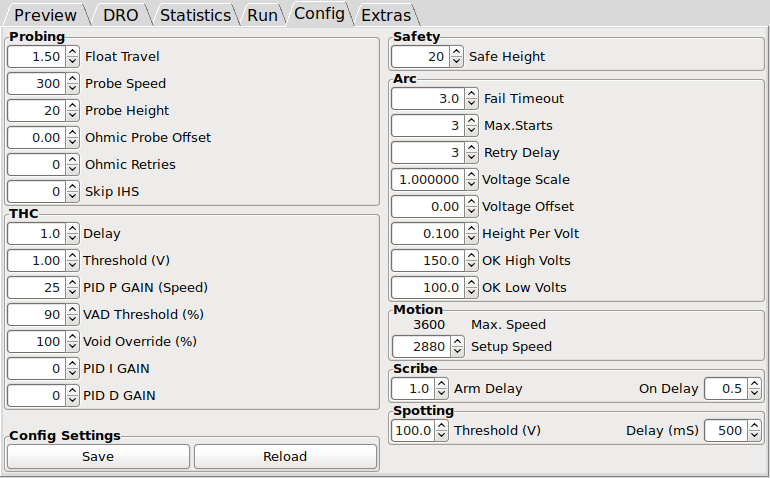
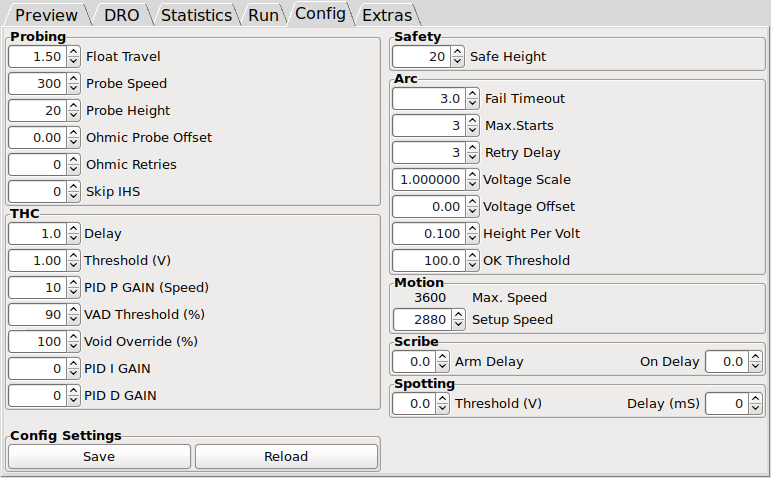
plasmac: remove arc ok high

diff --git a/configs/by_machine/plasmac/versions.html b/configs/by_machine/plasmac/versions.html
@@ -22,6 +22,7 @@ table th {
 <br><b><u>v0.108 - 2020 Apr 05</u></b>
 <ul style="margin:0;">
   <li>enable reverse run for linuxcnc 2.8</li>
+  <li>remove arc ok high</li>
 </ul>
 
 <br><b><u>v0.107 - 2020 Mar 31</u></b>

diff --git a/configs/by_machine/plasmac/plasmac_config.py b/configs/by_machine/plasmac/plasmac_config.py
@@ -45,9 +45,7 @@ class HandlerClass:
         self.builder.get_object('arc-fail-delay').set_digits(1)
         self.builder.get_object('arc-fail-delay-adj').configure(3,0.1,60,0.1,0,0)
         self.builder.get_object('arc-ok-low').set_digits(1)
-        self.builder.get_object('arc-ok-low-adj').configure(30,0,100,0.5,0,0)
-        self.builder.get_object('arc-ok-high').set_digits(1)
-        self.builder.get_object('arc-ok-high-adj').configure(9999,0,9999,0.5,0,0)
+        self.builder.get_object('arc-ok-low-adj').configure(60,0,100,0.5,0,0)
         self.builder.get_object('arc-max-starts').set_digits(0)
         self.builder.get_object('arc-max-starts-adj').configure(3,1,9,1,0,0)
         self.builder.get_object('arc-restart-delay').set_digits(0)
@@ -134,10 +132,8 @@ class HandlerClass:
         maxPidP = self.thcFeedRate / units * 0.1
         if mode != self.oldMode:
             if mode == 0:
-                self.builder.get_object('arc-ok-high').show()
-                self.builder.get_object('arc-ok-high-label').set_text('OK High Volts')
                 self.builder.get_object('arc-ok-low').show()
-                self.builder.get_object('arc-ok-low-label').set_text('OK Low Volts')
+                self.builder.get_object('arc-ok-low-label').set_text('OK Threshold')
                 self.builder.get_object('arc-voltage-scale').show()
                 self.builder.get_object('arc-voltage-scale-label').set_text('Voltage Scale')
                 self.builder.get_object('arc-voltage-offset').show()
@@ -154,8 +150,6 @@ class HandlerClass:
                 self.builder.get_object('pid-d-label').set_text('PID D GAIN')
                 self.builder.get_object('threshold-box').show()
             elif mode == 1:
-                self.builder.get_object('arc-ok-high').hide()
-                self.builder.get_object('arc-ok-high-label').set_text('')
                 self.builder.get_object('arc-ok-low').hide()
                 self.builder.get_object('arc-ok-low-label').set_text('')
                 self.builder.get_object('arc-voltage-scale').show()
@@ -174,8 +168,6 @@ class HandlerClass:
                 self.builder.get_object('pid-d-label').set_text('PID D GAIN')
                 self.builder.get_object('threshold-box').show()
             elif mode == 2:
-                self.builder.get_object('arc-ok-high').hide()
-                self.builder.get_object('arc-ok-high-label').set_text('')
                 self.builder.get_object('arc-ok-low').hide()
                 self.builder.get_object('arc-ok-low-label').set_text('')
                 self.builder.get_object('arc-voltage-scale').hide()

diff --git a/configs/by_machine/plasmac/test/plasmac_test.py b/configs/by_machine/plasmac/test/plasmac_test.py
@@ -105,7 +105,7 @@ class plasmacTest:
     def torch_changed(self, halpin):
         if not halpin.get():
             self.B.get_object('arcVoltage').set_sensitive(0)
-            self.B.get_object('arcVoltage').set_value(99.9)
+            self.B.get_object('arcVoltage').set_value(50.0)
             time.sleep(.1)
             self.B.get_object('arcVoltage').set_sensitive(1)
 
